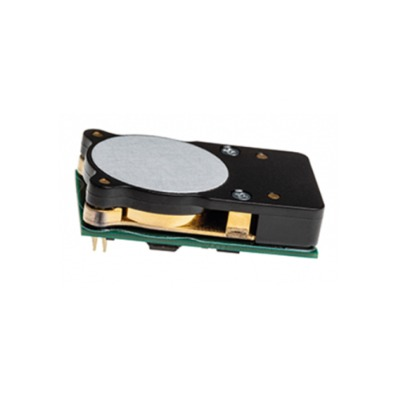
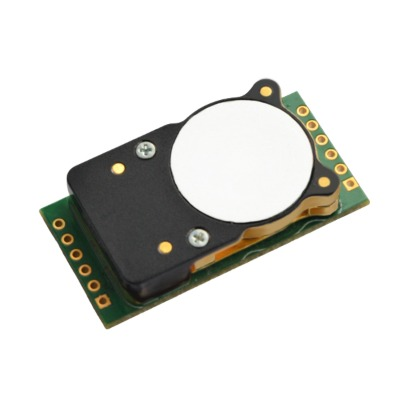
GitBook: [#71] 소개글 이미지 수정

Changed region(s): [[0.09, 0.18, 0.93, 0.84]]

diff --git a/README.md b/README.md
@@ -19,7 +19,10 @@ Allsensing Documents Center는 여러분의 지식과 창의성을 발휘할 수
 
 Allsensing은 설립 이래 다양한 환경센서를 고객들에게 소개해 왔으며, 적지 않은 경험을 축적하게 되었습니다. 저희의 경험을 기반으로 센서에 대한 올바를 이해와 사용 방법을 소개하고, 더 나아가 적시에 공급할 수 있는 공급망을 구축하는 새로운 목표를 세우고 있습니다. Allsensing Documents Center에서 전문적인 센서로 일상적인 요구 사항에 여러분의 창의성을 구현하는 데 도움이 되는 필수 문서를 제공하기 위해 최선을 다하겠습니다.
 
-### AGSM [![AGSM](.gitbook/assets/AGSM.png)](https://docs.allsensing.co.kr/allsensing.docs.co.kr/product-document/agsm) 
-### GSS [![GSS](.gitbook/assets/GSS.jpg)](https://docs.allsensing.co.kr/allsensing.docs.co.kr/product-document/gss)
-### EC-Sens [![EC-Sens](.gitbook/assets/EC-Sens.png)](https://docs.allsensing.co.kr/allsensing.docs.co.kr/product-document/ec-sens) 
+![](.gitbook/assets/AGSMex.jpg)
+
+![](.gitbook/assets/GSS.jpg)
+
+### EC-Sens [![EC-Sens](.gitbook/assets/EC-Sens.png)](https://docs.allsensing.co.kr/allsensing.docs.co.kr/product-document/ec-sens)
+
 ### LuminOx [![LuminOx-02](.gitbook/assets/LumiOx.jpg)](https://docs.allsensing.co.kr/allsensing.docs.co.kr/product-document/luminox-o2)
